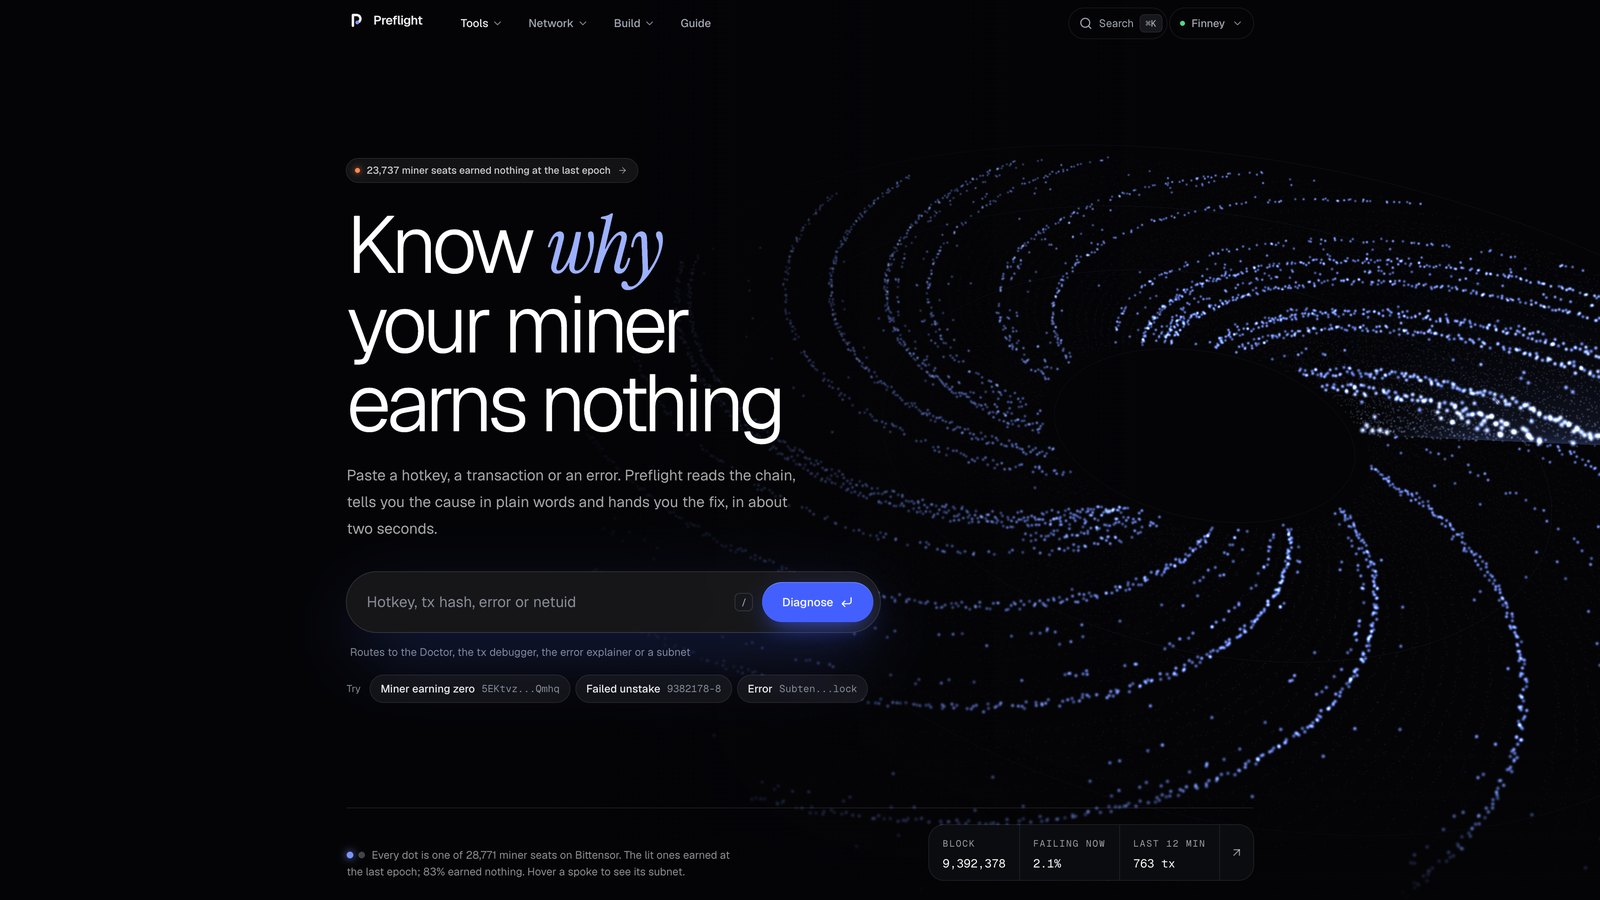
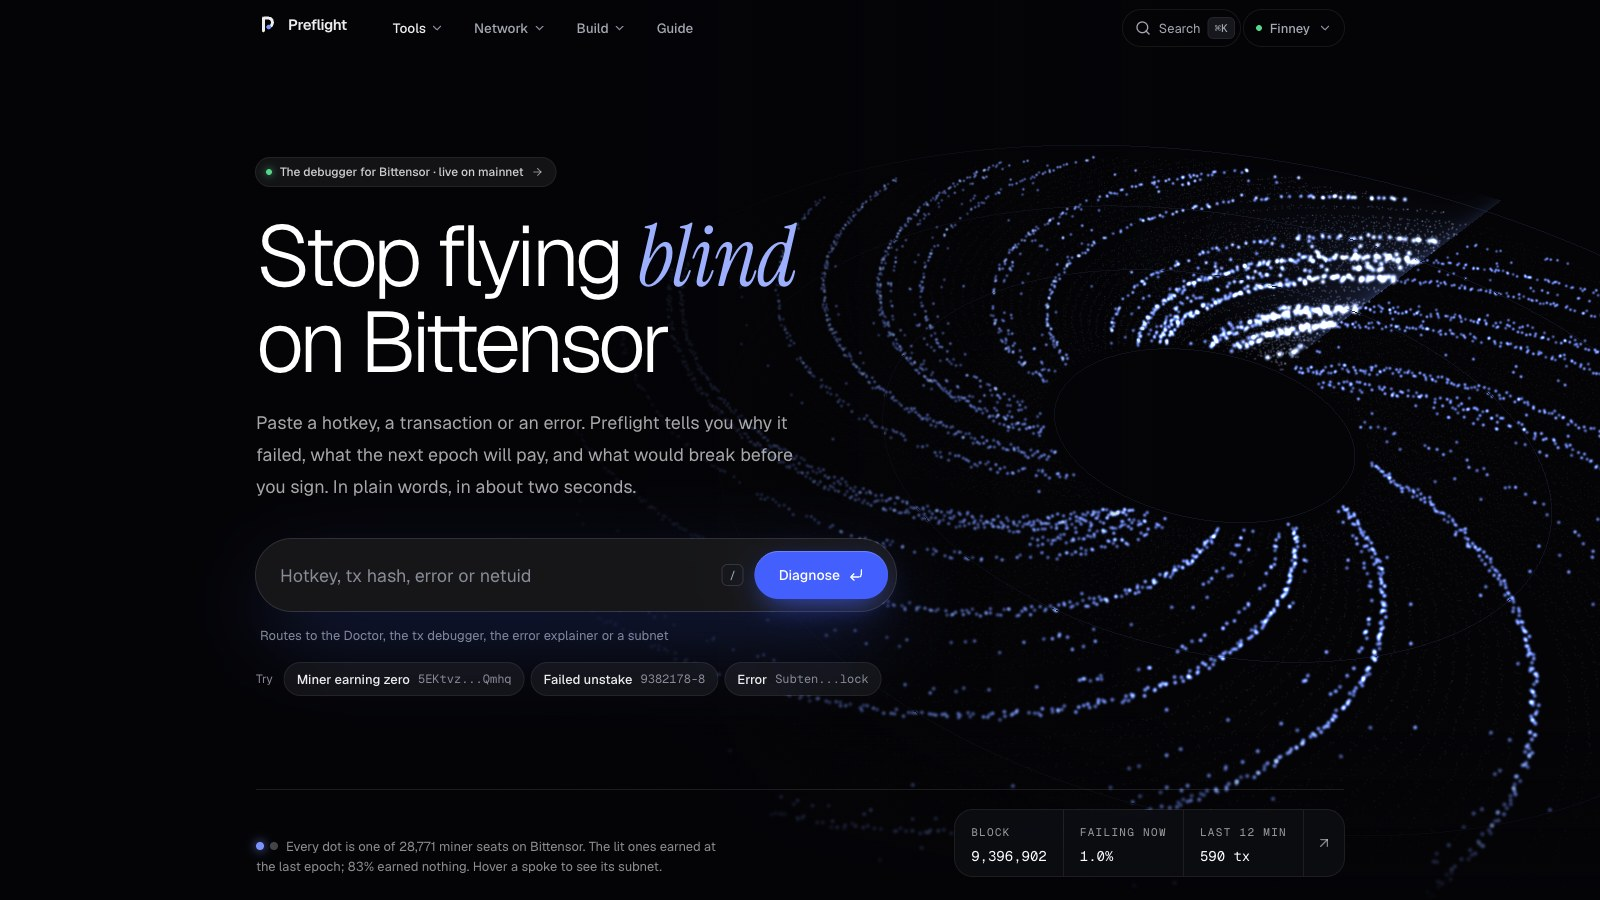
README reframed around the whole debugger, as the site now reads: opens on Stop flying blind on Bittensor with a fresh hero capture, then the three jobs (explains with the Doctor, the transaction debugger and error explanations; predicts with Epoch Lab, the Simulator and the launch planner; warns wi

diff --git a/README.md b/README.md
@@ -1,12 +1,12 @@
 <div align="center">
 
-<a href="https://preflight-lemon.vercel.app"><img src="docs/readme/hero.jpg" alt="Preflight: know why your miner earns nothing. The live site, with every miner seat on Bittensor drawn as a galaxy" width="100%"></a>
+<a href="https://preflight-lemon.vercel.app"><img src="docs/readme/hero.jpg" alt="Preflight: stop flying blind on Bittensor. The live site, with every miner seat on Bittensor drawn as a galaxy" width="100%"></a>
 
 <h1>Preflight</h1>
 
-<p><strong>Know why your Bittensor miner earns nothing.</strong><br>
-Paste a hotkey, a transaction or an error. Preflight reads the chain at one block,<br>
-tells you the cause in plain words, and hands you the fix.</p>
+<p><strong>Stop flying blind on Bittensor.</strong><br>
+Preflight is the debugger for Bittensor. Paste a hotkey, a transaction or an error,<br>
+and it tells you why it failed, what the next epoch will pay, and what would break before you sign.</p>
 
 <p>
 <a href="https://preflight-lemon.vercel.app"><img alt="Live on mainnet" src="https://img.shields.io/badge/live-preflight--lemon.vercel.app-4360ff?style=flat-square"></a>
@@ -36,13 +36,35 @@ tells you the cause in plain words, and hands you the fix.</p>
 
 <br>
 
-## The problem, in one number
+## What Preflight does
 
-On 30 October 2026 we read every miner seat on Bittensor at block 9,391,986. **23,737 of 28,771 seats earned nothing at the last epoch.** That is 83%.
+Three jobs, from one paste, every answer read from mainnet at a single block.
 
-The chain shows each of them a zero. It never says why. So miners guess: they restart, re-register, rewrite code that was never the problem, and burn TAO doing it. Explorers like Taostats show the zero too.
+| | When | Tools |
+|---|---|---|
+| **Explains** | Something already went wrong. You get the cause in plain words and the fix | **Doctor**: why a miner or validator earns nothing, 27 rules<br>**Transaction debugger**: why a transaction failed and what it cost you<br>**Explain an error**: any of 406 chain errors in plain words |
+| **Predicts** | You are about to act. You see what happens before you pay for it | **Epoch Lab**: the next epoch's pay before the chain runs it, plus what-ifs<br>**Simulator**: will this transaction work, checked before you sign<br>**Launch planner**: what a new subnet costs today, and what it replaces |
+| **Warns** | You are not looking. Preflight tells you before it costs TAO | **Network weather**: what is failing on chain right now<br>**Telegram alerts**: a message before an epoch cuts your pay<br>**CI gate**: stops weights consensus would cut, before they ship |
 
-Preflight shows the reason. Here is what it found when it checked all 23,737:
+It only reads. It never asks for keys, never signs and never sends anything, and the simulator never broadcasts.
+
+<br>
+
+## Why it exists
+
+Bittensor tells you what happened. It rarely tells you why, and it never tells you before.
+
+**Miners earn zero and never learn why.** On 30 October 2026 we read every miner seat on Bittensor at block 9,391,986. **23,737 of 28,771 seats earned nothing** at the last epoch. That is 83%. The chain shows each of them a zero and no reason, so miners guess: they restart, re-register and rewrite code that was never the problem, and burn TAO doing it.
+
+**Transactions fail and still charge you.** In a two hour sample of mainnet (600 blocks), **103 of 9,224 transactions failed**, about 1 in 90, and every one still paid its fee. What comes back is a bare code like `SubtensorModule.InsufficientLiquidity`.
+
+**You find out after it costs you.** The epoch pays, the registration burns, the weights get set, and only then can you see it went wrong.
+
+Explorers like Taostats show the same numbers, and they are great at it. Preflight turns the numbers into reasons, and gets the answer to you before the chain does.
+
+<details>
+<summary><b>What the Doctor found when it checked all 23,737 zero seats</b></summary>
+<br>
 
 <p align="center"><img src="docs/readme/why-zero.png" alt="Why 23,737 miner seats earned nothing: 47% are on subnets that pay one UID, 41% never served an axon, 8% have no validator weight, 3% are still in immunity, under 1% are cut by consensus, 1% other" width="88%"></p>
 
@@ -55,17 +77,19 @@ Preflight shows the reason. Here is what it found when it checked all 23,737:
 | Validators weight it, but consensus cuts it to zero | 59 | under 1% |
 | Something else (the Doctor names the rule for each one) | 244 | 1% |
 
+</details>
+
 <br>
 
 ## See it work
 
-Paste a hotkey and you get one sentence, the fix, and the evidence behind it, read from mainnet at a single block.
+Paste a hotkey and the Doctor answers in one sentence, with the fix and the evidence behind it, read from mainnet at a single block.
 
 <p align="center"><img src="docs/readme/doctor.gif" alt="Pasting a hotkey into Preflight: the Doctor answers that UID 0 on SN64 earns nothing because no validator has scored it, with the block it read" width="88%"></p>
 
 <p align="center">
 <a href="docs/readme/preflight-film-720p.mp4"><img src="docs/readme/film-poster.jpg" alt="Watch the 3 minute Preflight film" width="88%"></a><br>
-<sub>The full tour in 3 minutes: every screen in it is the real product on mainnet.</sub>
+<sub>The whole product in 3 minutes. Every screen in it is the real product on mainnet.</sub>
 </p>
 
 <br>
@@ -115,31 +139,71 @@ finney at block 9,395,595, runtime 486  3,306 ms
 ╰─────────────────────────────────────────────────────────────────────────────── 19 rules ─╯
 ```
 
+Then the rest of the debugger, once installed:
+
+```bash
+preflight tx 9382178-8      # why a real unstake failed, and the fee it still paid
+preflight epoch 64          # what SN64's next epoch will pay, before the chain runs it
+preflight sim burned_register --netuid 64 --as <coldkey> --hotkey <hotkey>   # will it work?
+preflight weather           # is it me, or the whole network?
+```
+
 <br>
 
 ## What it answers
 
-Every tool starts from a question miners and validators actually ask.
+Every tool starts from a question miners and validators actually ask, at the moment they ask it.
+
+### Before you act
+
+| You ask | Tool | Try |
+|---|---|---|
+| Will this transaction work if I send it now? | **Simulator**: the runtime's own checks against live state, or the real runtime on a fork. Never broadcasts | `preflight sim burned_register --netuid 64 --as <coldkey> --hotkey <hotkey>` |
+| What will the next epoch pay me? | **Epoch Lab**: Bittensor's own consensus math on live data, before the chain runs it | `preflight epoch 64 --hotkey <ss58>` |
+| What if kappa changed, or a validator went offline? | **Epoch Lab what-ifs**: recompute the same epoch with your changes | `preflight epoch 64 --kappa 0.3 --drop 252` |
+| Should I mine this subnet? | **Mine**: what earning miners make, what it takes to keep a seat, payback | `preflight mine 51` |
+| What does launching a subnet cost today? | **Launch planner**: lock cost, rate limit, the subnet it would replace, the timeline | `preflight plan` |
+| What is this subnet, and is it healthy? | **Subnets**: a 0 to 100 health score and every hyperparameter explained | `preflight subnet 64` |
+
+### When it breaks
 
 | You ask | Tool | Try |
 |---|---|---|
 | Why does my miner earn nothing? | **Doctor**: 27 rules for miners, validators and subnets, each citing what it read | `preflight doctor <hotkey>` |
-| What will the next epoch pay me? | **Epoch Lab**: Bittensor's own consensus math on live data, before the chain runs it | `preflight epoch 64 --hotkey <ss58>` |
-| What if kappa changed, or a validator went offline? | **Epoch Lab what-ifs**: recompute the same epoch with your changes | `preflight epoch 64 --kappa 0.3 --drop 252` |
 | Why did my transaction fail? | **Transaction debugger**: the error in plain words, with that transaction's own numbers | `preflight tx 9382178-8` |
-| Will this work if I send it now? | **Simulator**: the real runtime on a fork of mainnet, or a prediction that says so | `preflight sim burned_register --netuid 64 ...` |
-| Is it me, or the whole network? | **Network weather**: what is failing on chain right now, grouped by error | `preflight weather` |
+| What does this error mean? | **Explain an error**: 406 chain errors plus the traps the catalog misses | `preflight tx "SubtensorModule.InsufficientLiquidity"` |
 | Why did my incentive drop? | **Why**: names the validators whose support moved it, and what each did | `preflight why <hotkey> --netuid 19` |
 | Which of my seats are broken? | **Fleet**: every hotkey a coldkey owns, on every subnet, worst first | `preflight fleet <coldkey>` |
-| Should I mine this subnet? | **Mine**: what earning miners make, what it takes to keep a seat, payback | `preflight mine 51` |
-| What does launching a subnet cost today? | **Launch planner**: lock cost, rate limit, the subnet it would replace, the timeline | `preflight plan` |
-| What is this subnet, and is it healthy? | **Subnets**: a 0 to 100 health score and every hyperparameter explained | `preflight subnet 64` |
+
+### Always watching
+
+| You ask | Tool | Try |
+|---|---|---|
+| Is it me, or the whole network? | **Network weather**: what is failing on chain right now, grouped by error | `preflight weather` |
 | What is happening on chain right now? | **Live explorer**: every extrinsic as a plain sentence, as blocks land | `preflight live --failures` |
 | Tell me before it breaks | **Watch**: Telegram alerts when a neuron breaks, or before an epoch cuts its pay | `preflight watch add <hotkey> --netuid 64` |
+| Will consensus keep my new weights? | **CI gate**: exits 1 if consensus would cut them, before they are ever set | `preflight epoch 64 --weights new.json --validator 12 --min-trust 0.9` |
 
 <br>
 
 ## A tour of the real screens
+
+### Before you act
+
+<table>
+<tr>
+<td width="50%" valign="top">
+<a href="https://preflight-lemon.vercel.app/sim"><img src="docs/readme/simulator.jpg" alt="The Simulator saying a registration would fail with SubtensorModule.Payment, what it means and how much TAO to top up"></a>
+<p><b>Simulator.</b> A registration from a coldkey with no TAO, tried before anyone signs: <code>Would fail · SubtensorModule.Payment</code>, why, and exactly how much to top up. Nothing is sent.</p>
+</td>
+<td width="50%" valign="top">
+<a href="https://preflight-lemon.vercel.app/epoch/finney/64"><img src="web/public/shots/epoch-sn64.png" alt="Epoch Lab for SN64"></a>
+<p><b>Epoch Lab.</b> The next epoch counts down to its real block. Each miner's pay next epoch and why. The green badge says the last real epoch matched the chain on every UID.</p>
+</td>
+</tr>
+</table>
+
+### When it breaks
 
 <table>
 <tr>
@@ -148,23 +212,30 @@ Every tool starts from a question miners and validators actually ask.
 <p><b>Doctor.</b> The verdict in one sentence, the fix, and the evidence table with the storage item behind each value. Every answer names its block, hash and runtime.</p>
 </td>
 <td width="50%" valign="top">
-<a href="https://preflight-lemon.vercel.app/epoch/finney/64"><img src="web/public/shots/epoch-sn64.png" alt="Epoch Lab for SN64"></a>
-<p><b>Epoch Lab.</b> The next epoch counts down to its real block. Each miner's pay next epoch and why. The green badge says the last real epoch matched the chain on every UID.</p>
-</td>
-</tr>
-<tr>
-<td width="50%" valign="top">
 <a href="https://preflight-lemon.vercel.app/tx/finney/9382178-8"><img src="web/public/shots/tx-failed-unstake.png" alt="A failed unstake explained"></a>
 <p><b>Transaction debugger.</b> A failed <code>remove_stake</code>: what <code>InsufficientLiquidity</code> means here, the fee it still paid, and what to do instead.</p>
-</td>
-<td width="50%" valign="top">
-<a href="https://preflight-lemon.vercel.app/weather"><img src="web/public/shots/weather-finney.png" alt="Network weather on finney"></a>
-<p><b>Network weather.</b> The share of transactions failing right now, grouped by error, with the subnets each one hits and a link to open any of them.</p>
 </td>
 </tr>
 </table>
 
-Also on the site: the [Simulator](https://preflight-lemon.vercel.app/sim), the [Live explorer](https://preflight-lemon.vercel.app/live), the [Subnet directory](https://preflight-lemon.vercel.app/subnets), the [Launch planner](https://preflight-lemon.vercel.app/plan) and a [Guide](https://preflight-lemon.vercel.app/guide) that explains Bittensor from zero.
+### Always watching
+
+<table>
+<tr>
+<td width="50%" valign="top">
+<a href="https://preflight-lemon.vercel.app/weather"><img src="web/public/shots/weather-finney.png" alt="Network weather on finney"></a>
+<p><b>Network weather.</b> The share of transactions failing right now, grouped by error, with the subnets each one hits and a link to open any of them.</p>
+</td>
+<td width="50%" valign="top">
+<p><b>Telegram alerts.</b> Add a watch and <a href="https://t.me/PreflightAlertsbot">@PreflightAlertsbot</a> messages you before the next epoch cuts your pay. This one went out 22 minutes early, and the chain did exactly what it said:</p>
+<pre>Preflight: UID 85 on SN19 is set to drop to zero
+at the next epoch, block 9,392,129 (in about 0.4 h)</pre>
+<p><b>CI gate.</b> The GitHub Action boots a localnet subnet and fails the job on findings, and <code>preflight epoch --min-trust</code> stops weights consensus would cut before they are ever set.</p>
+</td>
+</tr>
+</table>
+
+Also on the site: [Explain an error](https://preflight-lemon.vercel.app/explain), the [Live explorer](https://preflight-lemon.vercel.app/live), the [Subnet directory](https://preflight-lemon.vercel.app/subnets), the [Launch planner](https://preflight-lemon.vercel.app/plan) and a [Guide](https://preflight-lemon.vercel.app/guide) that explains Bittensor from zero.
 
 <br>
 
@@ -387,6 +458,53 @@ chain stores
 
 <br>
 
+## The simulator: try it before you pay
+
+Pick an action (register, stake, unstake, set weights, serve an axon, register a subnet or start a call) and Preflight tries it against live state before you sign anything. With a fork running (`preflight fork`), the call runs on the chain's own runtime against a copy of mainnet. Without one, it is predicted from the runtime's own checks, and the result says which. Nothing is ever broadcast.
+
+The SDK's own dry run said `ok` for a zero balance registration, a miner setting weights and a stranger calling `start_call`. All three fail on chain, and the simulator reports the exact error ([decision 001](docs/decisions/001-simulator.md)).
+
+<details>
+<summary><b>Real output:</b> a registration that would fail, caught before it cost a fee</summary>
+
+```text
+$ preflight sim burned_register --netuid 64 --as 5Grwva...utQY --hotkey 5Grwva...utQY
+ WOULD FAIL   burned_register  as 5GrwvaEF5zXb26Fz9rcQpDWS57CtERHpNehXCPcNoHGKutQY
+Predicted from live state at block 9,396,914 and the runtime's own checks; start a fork with 
+`preflight fork` to execute it for real
+╭──────────────────────────────────────────────────────────────────────────────────────────────╮
+│  coldkey                        5GrwvaEF5zXb26Fz9rcQpDWS57CtERHpNehXCPcNoHGKutQY             │
+│  hotkey                         5GrwvaEF5zXb26Fz9rcQpDWS57CtERHpNehXCPcNoHGKutQY             │
+│  netuid                         SN64                                                         │
+│  fee                            0.001070890 TAO                                              │
+│  effect                         Registers 5Grwva...utQY on SN64                              │
+│  effect                         Burns 0.0005 TAO                                             │
+│  effect                         Nothing is locked as collateral; the full cost is burned     │
+│  Balance covers the fee         fail: 0.000000 TAO free for a 0.001071 fee                   │
+│  Registration open              pass: NetworkRegistrationAllowed is True                     │
+│  Per block cap                  pass: 0 of 1 used this block                                 │
+│  Per interval cap               pass: 0 of 3 used this interval                              │
+│  Hotkey not already registered  pass: no UID yet                                             │
+│  Balance covers burn and fee    fail: 0.0000 TAO free, needs 0.0005 burn + 0.001071 fee      │
+│  time                           3,550 ms                                                     │
+╰──────────────────────────────────────────────────────────────────────────────────────────────╯
+╭─  SubtensorModule.Payment: Payment  ─────────────────────────────────────────────────────────╮
+│ You tried to register with 0.0005 TAO needed, but the coldkey held 0.0000 TAO free.          │
+│                                                                                              │
+│ The burn rises with every registration and decays over time, so a balance that covered the   │
+│ quote can fall short a block later, and a failed attempt can still cost its fee. Check       │
+│ `btcli subnets burn-cost` right before retrying and keep some headroom                       │
+│ ╭─ Next step ──────────────────────────────────────────────────────────────────────────────╮ │
+│ │ Top up the coldkey by at least 0.0005 TAO plus fees, or wait for the burn to decay       │ │
+│ ╰──────────────────────────────────────────────────────────────────────────────────────────╯ │
+│ code insufficient_balance trap burn_moved                                                    │
+╰──────────────────────────────────────────────────────────────────────────────────────────────╯
+```
+
+</details>
+
+<br>
+
 ## The 27 rules
 
 The Doctor's rules mirror the runtime. Pruning order, immunity, owner immunity, the `set_weights` check sequence and axon address validation are ported from subtensor and cite the file and line they come from.
@@ -550,7 +668,7 @@ preflight epoch 64 --weights new.json --validator 12 --min-trust 0.9
 
 - **One block per answer.** Every report carries the block, block hash and runtime spec it was read at.
 - **Rules mirror the runtime.** They are ported from subtensor and cite the file and line they come from (`src/preflight/core/chain/registry.py`).
-- **The simulator executes when it can.** With a fork running, the transaction runs on the chain's own code against a copy of mainnet. The SDK's own dry run said `ok` for a zero balance registration, a miner setting weights and a stranger calling `start_call`; all three fail on chain, and the fork reports the exact error ([decision 001](docs/decisions/001-simulator.md)). Without a fork, the result says it is a prediction.
+- **The simulator executes when it can.** With a fork running, the transaction runs on the chain's own code against a copy of mainnet. Without a fork, the result says it is a prediction ([the simulator](#the-simulator-try-it-before-you-pay)).
 - **Errors come from the official catalog.** 406 chain errors, vendored with a date stamp, plus the traps it does not cover: the MEV shield on registration, loopback axons, reserves too low, burn moving between attempts.
 - **The epoch is proven, not assumed.** Every read recomputes the last epoch and compares every UID with what the chain stored.
 - **Tested on real data.** 157 Python tests (including real finney snapshots replayed offline) and 204 web tests on every push, plus a localnet suite that breaks a fresh chain eight ways and checks the Doctor names each one.
@@ -634,7 +752,7 @@ docs/decisions/       what was measured and decided, and why
 <details>
 <summary><b>How is this different from Taostats or tao.app?</b></summary>
 
-They show chain data, and they are great at it. Preflight explains it: it turns a zero into a reason, an error into a fix, and lets you test a transaction before you pay for it. Its API is meant to sit next to the data people already read.
+They show chain data, and they are great at it. Preflight is a debugger: it turns a zero into a reason and an error into a fix, shows the next epoch before it runs, lets you test a transaction before you pay for it, and warns you before an epoch cuts your pay. Its API is meant to sit next to the data people already read.
 </details>
 
 <details>
@@ -668,6 +786,6 @@ Finney (mainnet) and testnet on the hosted site. Run `preflight serve` locally f
 Built at the Bittensor Builders House, October 2026, by the builder of Crucible and bt-migrate.<br>
 MIT licence. See [LICENSE](LICENSE).
 
-<sub><b>Every zero should come with a reason.</b></sub>
+<sub><b>The chain gives you numbers. Preflight gives you reasons.</b></sub>
 
 </div>
